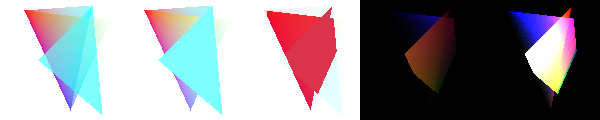
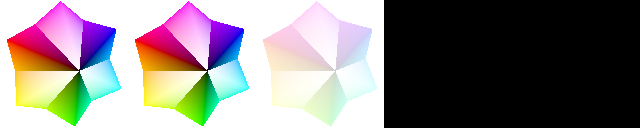
finished uniform elective

diff --git a/MP1_Rasterizer/rasterizer.py b/MP1_Rasterizer/rasterizer.py
@@ -324,6 +324,21 @@ with open(sys.argv[1], 'r') as filename:
                     z = positionsToDraw[j][2]
                     w = positionsToDraw[j][3]
 
+                    # print("old xyzw: ", x,y,z,w)
+                    
+                    posMatrix = [[x],[y],[z],[w]]
+                    productMatrix = []
+        
+                    if uniform:
+                        productMatrix = matrix_multiply(uniformMatrix, posMatrix)
+                        x = productMatrix[0][0]
+                        y = productMatrix[1][0]
+                        z = productMatrix[2][0]
+                        w = productMatrix[3][0]
+                            
+                        # print("new xyzw: ", x,y,z,w)
+
+
                     pointsToDraw.append([(x/w+1)*width/2, (y/w+1)*height/2, z/w, 1/w])
 
                 print("positionsToDraw: ", positionsToDraw)
@@ -432,6 +447,20 @@ with open(sys.argv[1], 'r') as filename:
                     z = positionsToDraw[j][2]
                     w = positionsToDraw[j][3]
 
+                    # print("old xyzw: ", x,y,z,w)
+                    
+                    posMatrix = [[x],[y],[z],[w]]
+                    productMatrix = []
+        
+                    if uniform:
+                        productMatrix = matrix_multiply(uniformMatrix, posMatrix)
+                        x = productMatrix[0][0]
+                        y = productMatrix[1][0]
+                        z = productMatrix[2][0]
+                        w = productMatrix[3][0]
+                            
+                        # print("new xyzw: ", x,y,z,w)
+
                     pointsToDraw.append([(x/w+1)*width/2, (y/w+1)*height/2, z/w, 1/w])
 
                 print("positionsToDraw: ", positionsToDraw)
@@ -495,14 +524,6 @@ with open(sys.argv[1], 'r') as filename:
                     b = pixel[6]*255
                     a = pixel[7]*255
                     
-                    posMatrix = [[x],[y],[z],[w]]
-                    productMatrix = []
-        
-                    if uniform:
-                        productMatrix = matrix_multiply(uniformMatrix, posMatrix)
-                    
-                    print("productMatrix: ", productMatrix)
-                    
                     if(-width < x < width and -height < y < height):
                         if depth:
                             existingPos = [pix for pix in currPixels if pix[:2] == [x,y]]
@@ -517,6 +538,8 @@ with open(sys.argv[1], 'r') as filename:
                             image.putpixel((int(x),int(y)), (int(r),int(g),int(b),int(a)))
                             # print("put down pixel xyrgba: ", x,y,r,g,b,a)
                             currPixels.append([x,y,z])
+                        
+                # print("pixelsToDraw: ", pixelsToDraw)
 
             
         
